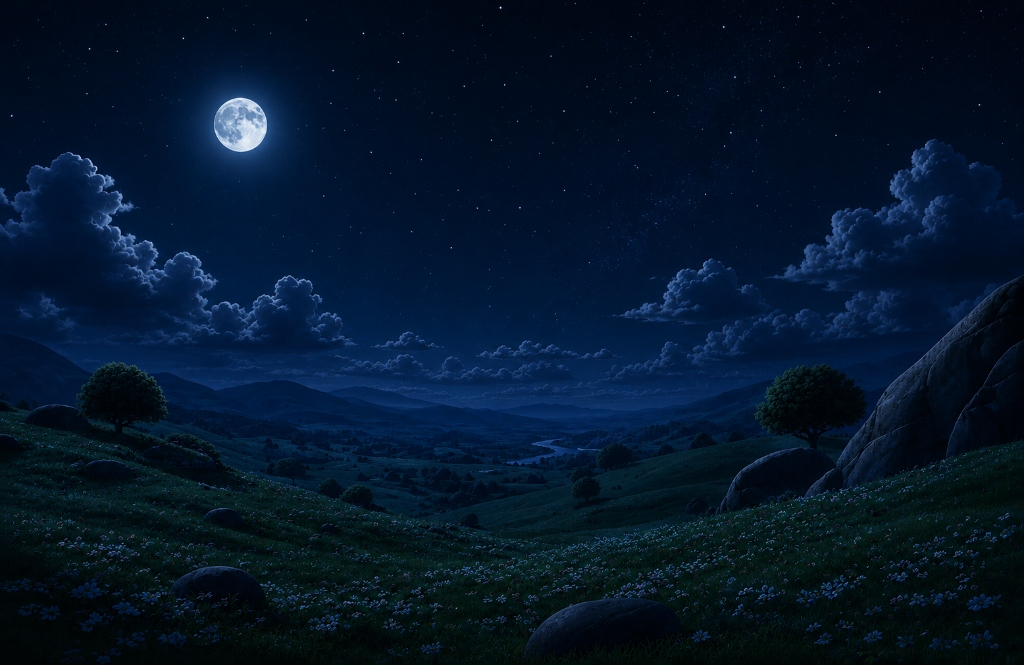
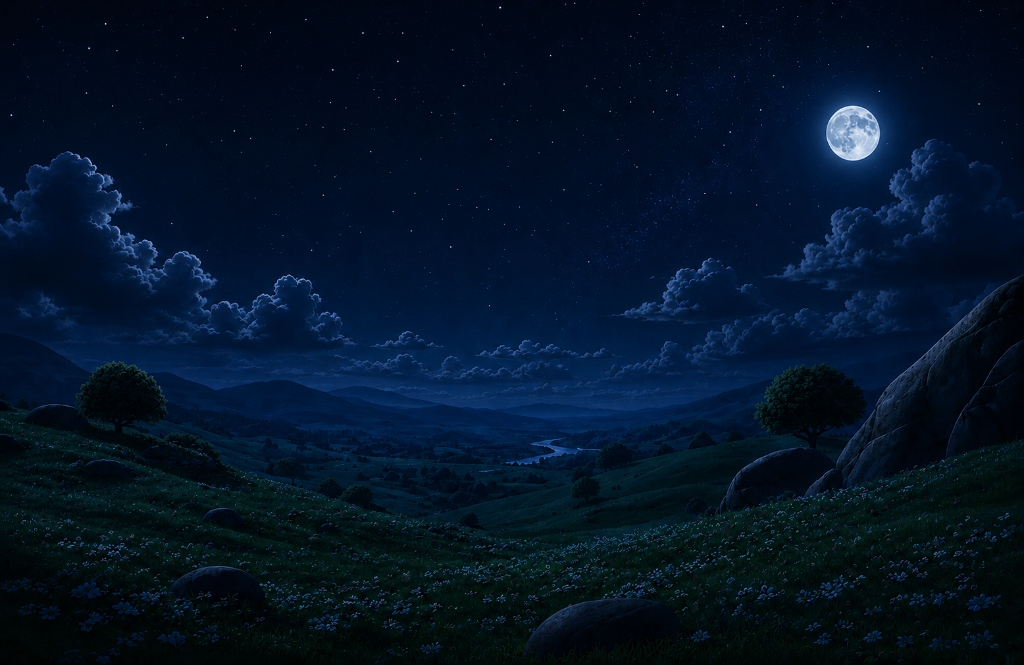
feat: update hero background with right-moon sky and solid black feature container

diff --git a/src/components/home/Hero.tsx b/src/components/home/Hero.tsx
@@ -104,17 +104,13 @@ export const Hero = () => {
           </motion.div>
         </div>
 
-        {/* 4. Modern Cinematic Hero Feature Widget (Recreated from Image 1) */}
+        {/* 4. Modern Cinematic Hero Feature Widget */}
         <motion.div
           initial={{ opacity: 0, y: 40 }}
           animate={{ opacity: 1, y: 0 }}
           transition={{ duration: 0.8, delay: 0.3, type: "spring" as const, bounce: 0 }}
-          className="w-full max-w-5xl rounded-[28px] sm:rounded-[36px] bg-[#0c0c0e] text-white border border-white/10 shadow-[0_30px_90px_rgba(0,0,0,0.65)] overflow-hidden mb-16 sm:mb-24 relative p-6 sm:p-10 md:p-12 text-left"
+          className="w-full max-w-5xl rounded-[28px] sm:rounded-[36px] bg-black text-white border border-white/10 shadow-[0_30px_90px_rgba(0,0,0,0.65)] overflow-hidden mb-16 sm:mb-24 relative p-6 sm:p-10 md:p-12 text-left"
         >
-          {/* Warm Directional Spotlight Lighting Effect */}
-          <div className="absolute -top-24 right-0 w-[550px] h-[550px] bg-[radial-gradient(ellipse_at_top_right,rgba(235,170,110,0.18),rgba(85,0,0,0.08),transparent_70%)] pointer-events-none" />
-          <div className="absolute -bottom-24 -left-24 w-96 h-96 bg-[#550000]/15 rounded-full blur-3xl pointer-events-none" />
-
           {/* Main Top / Middle Section: Headline on Left, Study Station Scene on Right */}
           <div className="relative z-10 grid grid-cols-1 lg:grid-cols-12 gap-8 items-center">
             
@@ -140,7 +136,7 @@ export const Hero = () => {
                 )}
               </h3>
 
-              <p className="text-xs sm:text-sm text-neutral-400 max-w-sm leading-relaxed">
+              <p className="text-xs sm:text-sm text-neutral-300 max-w-sm leading-relaxed">
                 {isKo
                   ? "강의 노트, 실시간 렉처 버디, 실전 퀴즈, 시험 예측까지 — 더 스마트한 학업 루틴."
                   : "Lecture notes, real-time audio buddy, practice quizzes, and exam predictions — all in one connected flow."}
@@ -159,10 +155,7 @@ export const Hero = () => {
 
             {/* Right Column: Modern Study Desk Visual Mockup */}
             <div className="lg:col-span-6 relative flex items-center justify-center lg:justify-end">
-              <div className="relative w-full max-w-[420px] aspect-[4/3] rounded-2xl bg-gradient-to-br from-neutral-900/90 to-neutral-950/90 border border-white/10 p-4 sm:p-5 shadow-2xl flex flex-col justify-between overflow-hidden">
-                {/* Desk Ambient Warm Glow */}
-                <div className="absolute top-0 right-0 w-44 h-44 bg-amber-400/10 rounded-full blur-2xl pointer-events-none" />
-
+              <div className="relative w-full max-w-[420px] aspect-[4/3] rounded-2xl bg-neutral-900/90 border border-white/10 p-4 sm:p-5 shadow-2xl flex flex-col justify-between overflow-hidden">
                 {/* Top: Laptop Screen Graphic */}
                 <div className="rounded-xl bg-neutral-950 border border-white/10 p-3 shadow-inner space-y-2">
                   <div className="flex items-center justify-between border-b border-white/10 pb-1.5">
@@ -175,7 +168,7 @@ export const Hero = () => {
                     <span className="text-[9px] text-emerald-400 font-medium">● 98% Predicted</span>
                   </div>
                   <div className="space-y-1 text-[10px] text-neutral-300 font-mono">
-                    <div className="text-[#f87171] font-semibold">Q: Binary Search Tree Balancing</div>
+                    <div className="text-amber-300 font-semibold">Q: Binary Search Tree Balancing</div>
                     <div className="text-neutral-400 text-[9px] truncate">AVL rotation steps & amortized time analysis...</div>
                   </div>
                 </div>
@@ -197,7 +190,7 @@ export const Hero = () => {
                     <div className="w-7 h-7 rounded-full bg-neutral-800 border border-white/15 flex items-center justify-center text-[8px] text-amber-300 shadow-inner">
                       ☕
                     </div>
-                    <div className="w-full h-3.5 rounded-sm bg-[#550000]/60 border border-white/10 text-[7px] text-white/70 flex items-center justify-center font-bold">
+                    <div className="w-full h-3.5 rounded-sm bg-neutral-800 border border-white/10 text-[7px] text-white/90 flex items-center justify-center font-bold">
                       CHEM II
                     </div>
                     <div className="w-full h-3 rounded-sm bg-neutral-800 border border-white/10 text-[7px] text-neutral-400 flex items-center justify-center">
